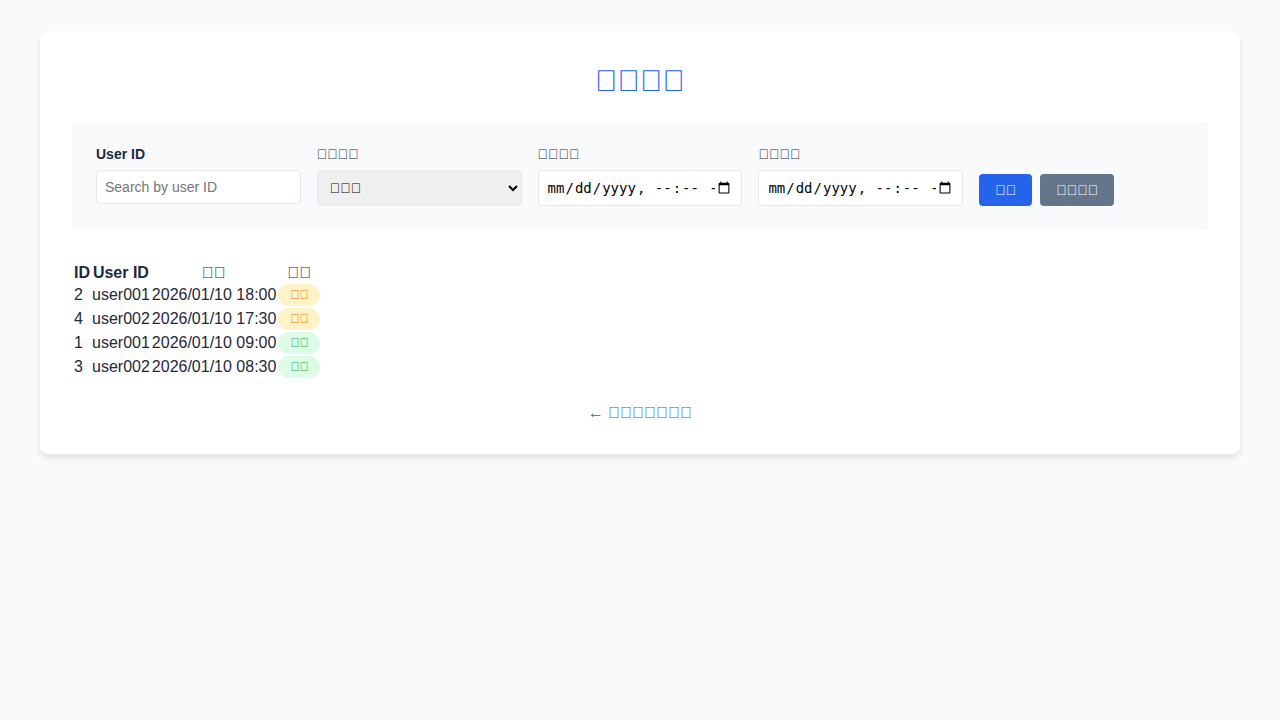
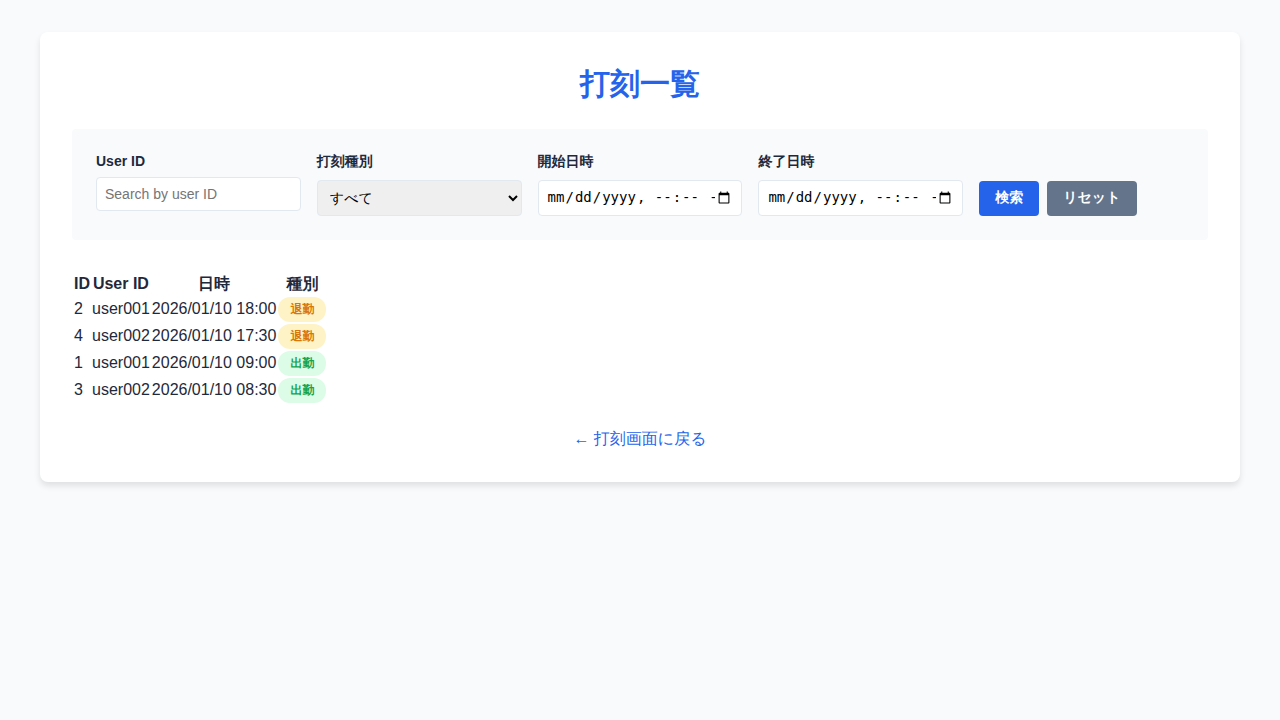
日本語フォント対応を追加してスクリーンショット再生成

diff --git a/apps/frontend/playwright.config.ts b/apps/frontend/playwright.config.ts
@@ -23,6 +23,13 @@ export default defineConfig({
       use: { 
         ...devices['Desktop Chrome'],
         viewport: { width: 1280, height: 720 },
+        // Enable font rendering for Japanese characters
+        launchOptions: {
+          args: [
+            '--font-render-hinting=none',
+            '--disable-font-subpixel-positioning',
+          ],
+        },
       },
     },
   ],
